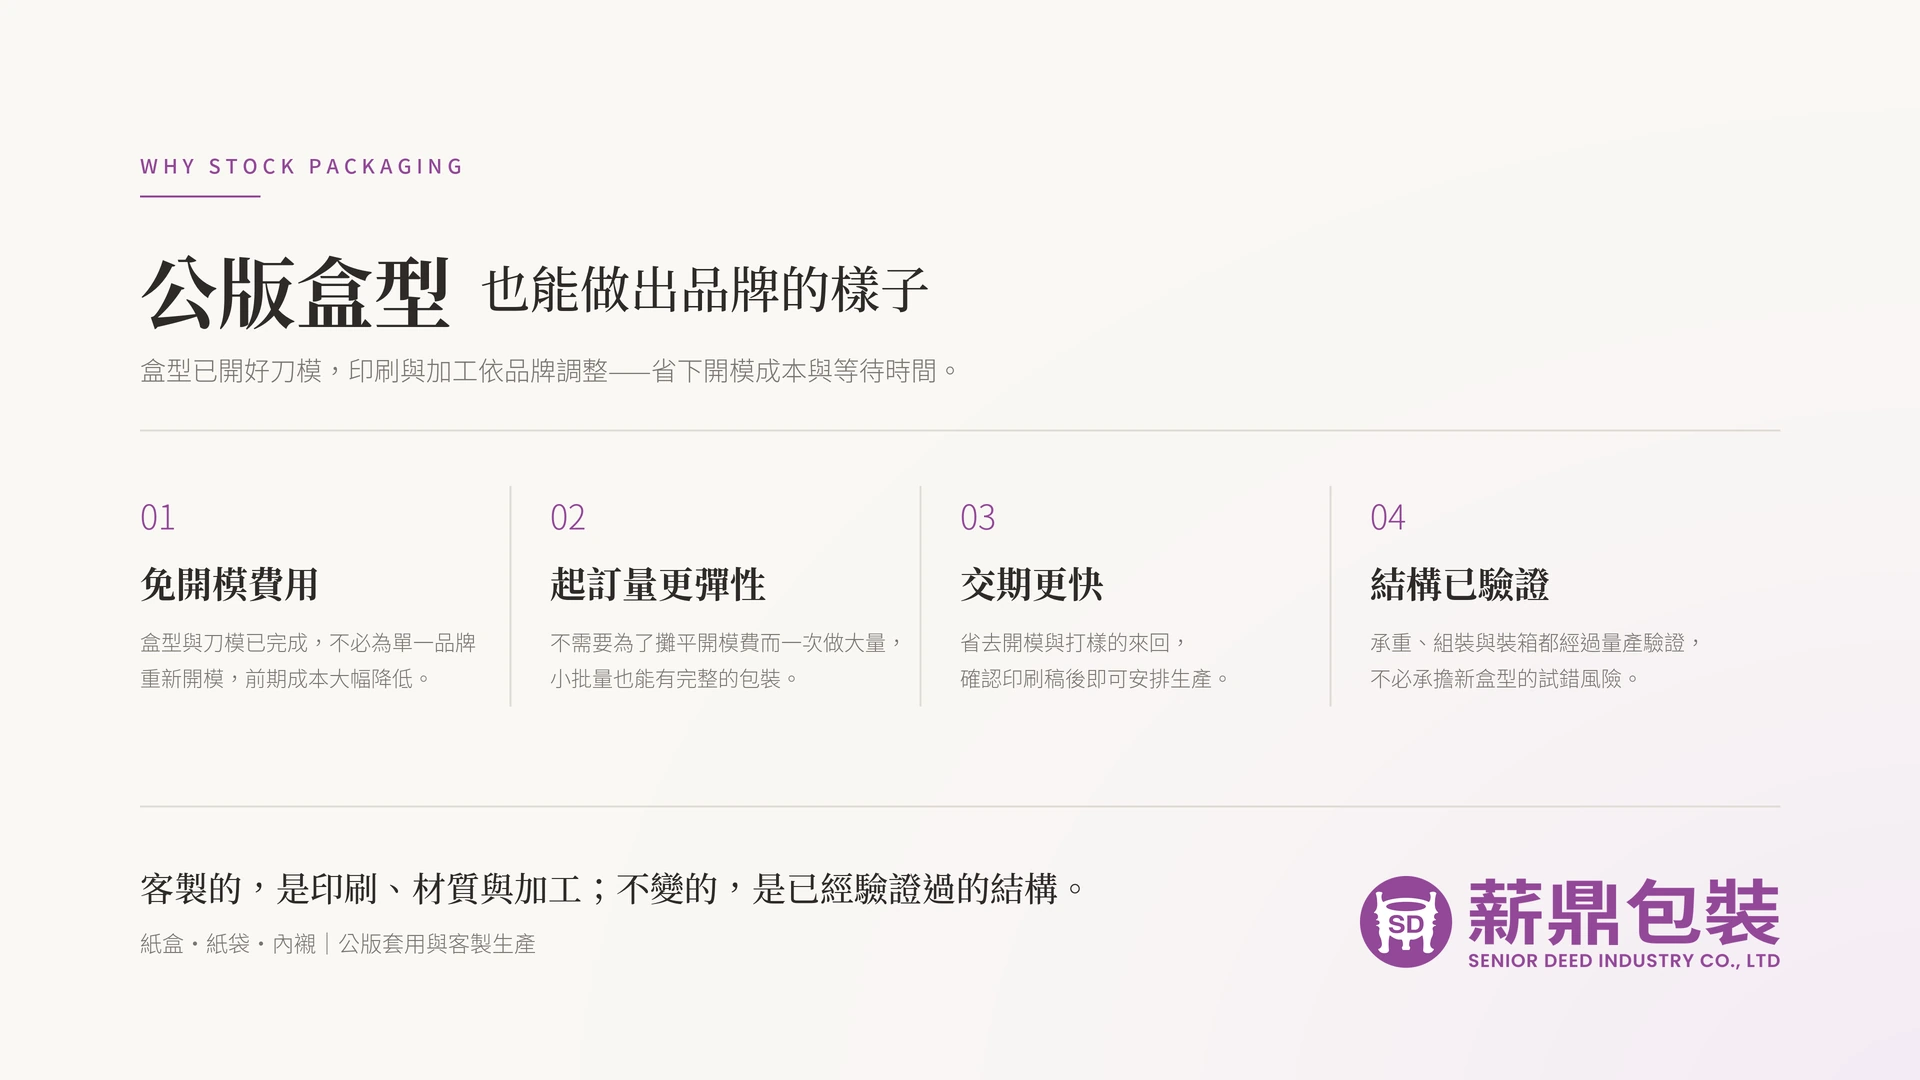
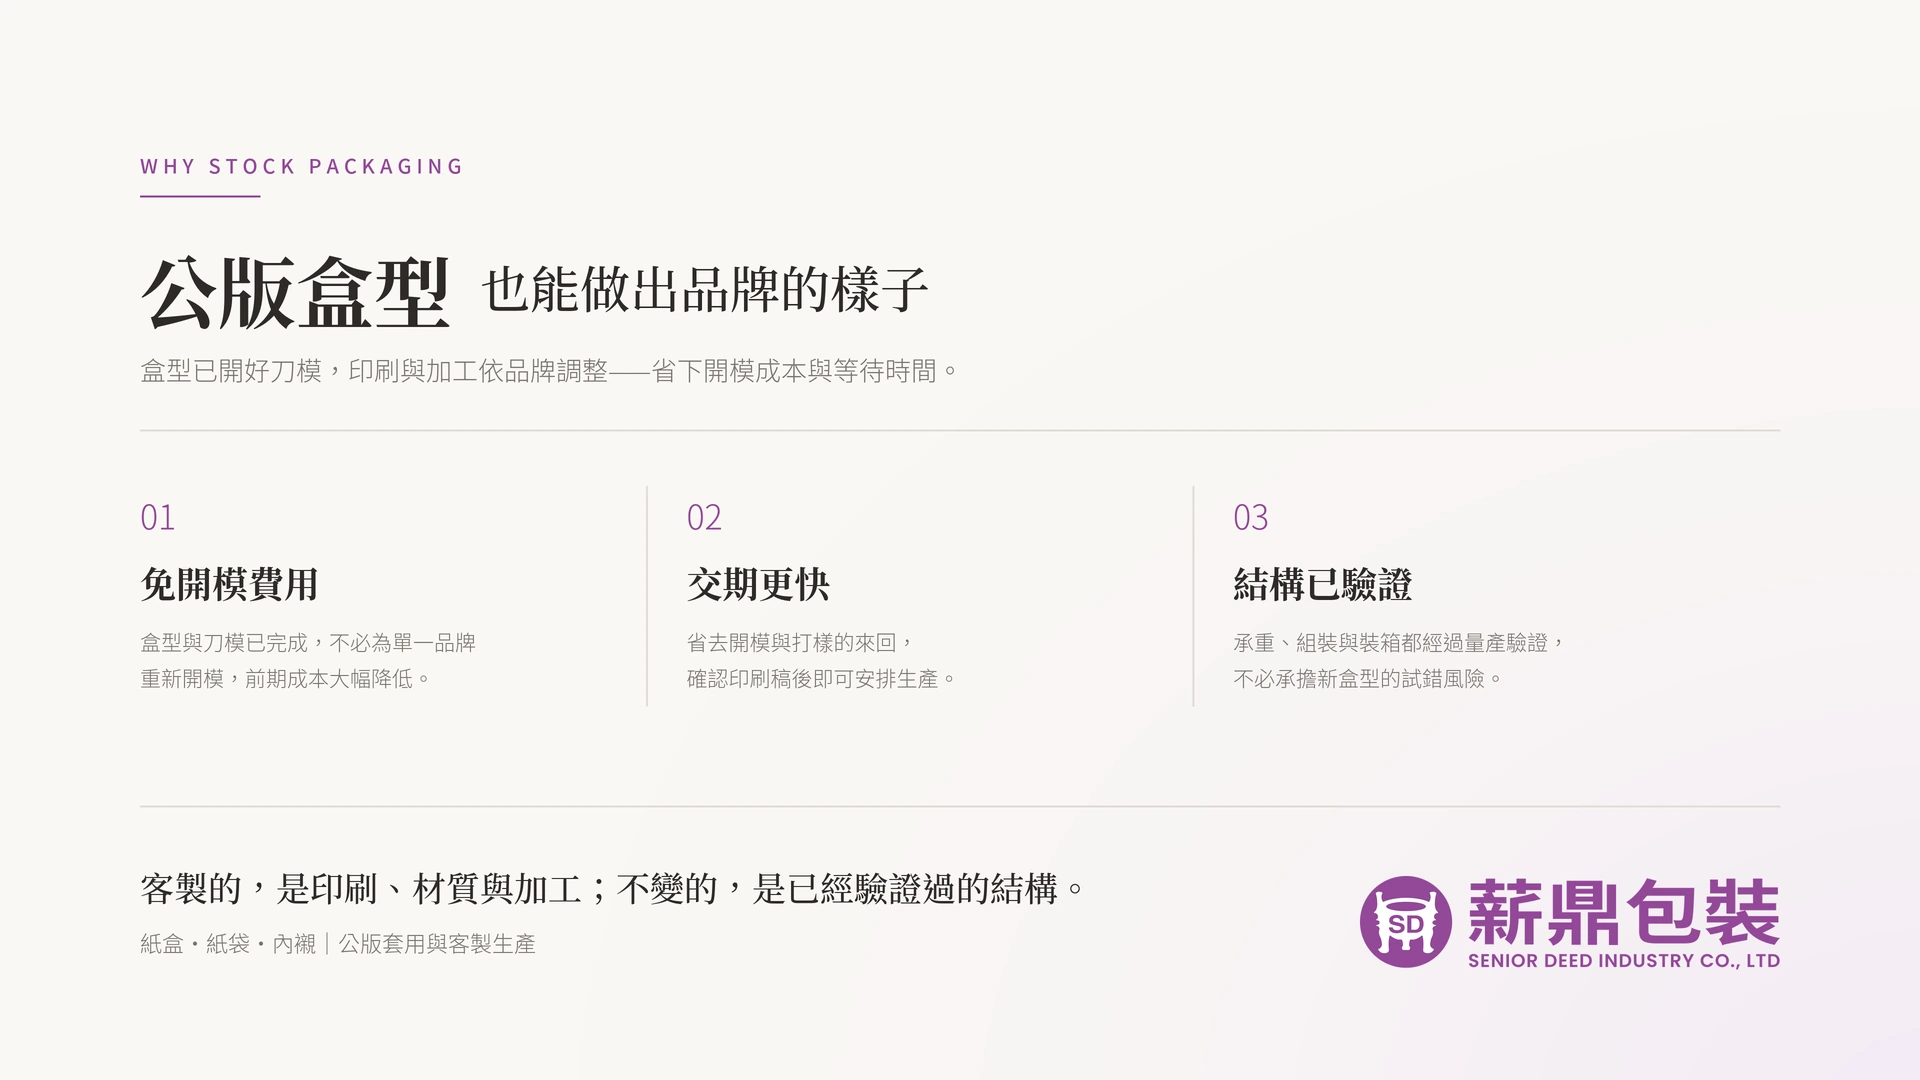
stock ending: drop the MOQ/flexibility point, 3 points
Claude-Session: https://claude.ai/code/session_01FHAxfGfD8vpumr7C1YBcXa

diff --git a/cases/gemalan.html b/cases/gemalan.html
@@ -32,7 +32,7 @@
 <figure class="rl-ai cs-io" style="--W:1920"><div class="rl-st"><img class="rl-pg" src="./gemalan/s/c3.webp?v=5" alt="星之坊 c3" loading="lazy" decoding="async"><div class="rl-hv"></div><div class="rl-tx"><span class="f-sans" style="--i:0;left:4.167%;top:6.481%;--s:24.0;--ls:0.2;color:#B39A68;font-weight:600">STOCK STRUCTURE 03</span><span class="f-sans" style="--i:1;left:4.167%;top:9.815%;--s:24.0;--ls:0;color:#B39A68;font-weight:300">/</span><span class="f-serif" style="--i:2;left:5.625%;top:10.185%;--s:34.0;--ls:0;color:#4A3A2E;font-weight:700">公版盒型</span><span class="f-serif" style="--i:3;left:20.938%;top:86.111%;--s:26.0;--ls:0;color:#6F6A64;font-weight:700">薪鼎公版盒型</span><span class="f-sans" style="--i:4;left:20.313%;top:90.278%;--s:20.0;--ls:0;color:#8E8880;font-weight:400">公版花色「蒲公英」</span><span class="f-serif" style="--i:5;left:69.854%;top:86.111%;--s:26.0;--ls:0;color:#4A3A2E;font-weight:700">星之坊 套用設計</span><span class="f-sans" style="--i:6;left:65.417%;top:90.278%;--s:20.0;--ls:0;color:#9A8C78;font-weight:400">8吋上下蓋蛋糕盒・25.4×25.4×16 cm</span></div></div><details class="rl-flow"><summary>展開本頁文字</summary><div class="rl-fb"><p>公版盒型：8吋上下蓋蛋糕盒 25.4×25.4×16 cm</p><p>左：薪鼎公版盒型（公版花色「蒲公英」）</p><p>右：星之坊 套用設計</p></div></details></figure>
 <figure class="rl-ai cs-io" style="--W:1920"><div class="rl-st"><img class="rl-pg" src="./gemalan/s/c4.webp?v=5" alt="星之坊 c4" loading="lazy" decoding="async"><div class="rl-hv"></div><div class="rl-tx"><span class="f-sans" style="--i:0;left:4.167%;top:6.481%;--s:24.0;--ls:0.2;color:#B39A68;font-weight:600">STOCK STRUCTURE 04</span><span class="f-sans" style="--i:1;left:4.167%;top:9.815%;--s:24.0;--ls:0;color:#B39A68;font-weight:300">/</span><span class="f-serif" style="--i:2;left:5.625%;top:10.185%;--s:34.0;--ls:0;color:#4A3A2E;font-weight:700">公版盒型</span><span class="f-serif" style="--i:3;left:20.938%;top:86.111%;--s:26.0;--ls:0;color:#6F6A64;font-weight:700">薪鼎公版盒型</span><span class="f-sans" style="--i:4;left:20.834%;top:90.278%;--s:20.0;--ls:0;color:#8E8880;font-weight:400">公版花色「絮語」</span><span class="f-serif" style="--i:5;left:69.854%;top:86.111%;--s:26.0;--ls:0;color:#4A3A2E;font-weight:700">星之坊 套用設計</span><span class="f-sans" style="--i:6;left:65.417%;top:90.278%;--s:20.0;--ls:0;color:#9A8C78;font-weight:400">花瓣盒（切片蛋糕盒）・15×10×13 cm</span></div></div><details class="rl-flow"><summary>展開本頁文字</summary><div class="rl-fb"><p>公版盒型：花瓣盒（切片蛋糕盒） 15×10×13 cm</p><p>左：薪鼎公版盒型（公版花色「絮語」）</p><p>右：星之坊 套用設計</p></div></details></figure>
 <figure class="rl-ai cs-io" style="--W:1920"><div class="rl-st"><img class="rl-pg" src="./gemalan/s/sc6.webp?v=4" alt="星之坊 6吋上下蓋蛋糕盒 情境" loading="lazy" decoding="async"><div class="rl-hv"></div><div class="rl-tx"><span class="f-sans" style="--i:0;left:7.292%;top:30.556%;--s:22.0;--ls:0.2;color:#B39A68;font-weight:600">IN USE 02</span><span class="f-serif" style="--i:1;left:7.292%;top:35.185%;--s:40.0;--ls:0;color:#4A3A2E;font-weight:700">6吋上下蓋蛋糕盒</span><span class="f-sans" style="--i:2;left:7.292%;top:42.593%;--s:20.0;--ls:0;color:#9A8C78;font-weight:400">21 × 21 × 16 cm</span></div></div><details class="rl-flow"><summary>展開本頁文字</summary><div class="rl-fb"><p>6吋上下蓋蛋糕盒 21 × 21 × 16 cm</p></div></details></figure>
-<figure class="rl-ai cs-io" style="--W:1920"><div class="rl-st"><img class="rl-pg" src="./gemalan/s/scpetal.webp?v=4" alt="星之坊 花瓣盒 情境" loading="lazy" decoding="async"><div class="rl-hv"></div><div class="rl-tx"><span class="f-sans" style="--i:0;left:7.292%;top:30.556%;--s:22.0;--ls:0.2;color:#B39A68;font-weight:600">IN USE 03</span><span class="f-serif" style="--i:1;left:7.292%;top:35.185%;--s:40.0;--ls:0;color:#4A3A2E;font-weight:700">花瓣盒（切片蛋糕盒）</span><span class="f-sans" style="--i:2;left:7.292%;top:42.593%;--s:20.0;--ls:0;color:#9A8C78;font-weight:400">15 × 10 × 13 cm</span></div></div><details class="rl-flow"><summary>展開本頁文字</summary><div class="rl-fb"><p>花瓣盒（切片蛋糕盒） 15 × 10 × 13 cm</p></div></details></figure><figure class="rl-ai cs-io" style="--W:1920"><div class="rl-st"><img class="rl-pg" src="./_common/stock-ending.webp?v=1" alt="公版盒型的優點｜薪鼎包裝" loading="lazy" decoding="async"><div class="rl-hv"></div></div><details class="rl-flow"><summary>展開本頁文字</summary><div class="rl-fb"><p>公版盒型也能做出品牌的樣子：免開模費用、起訂量更彈性、交期更快、結構已驗證。</p><p>客製的，是印刷、材質與加工；不變的，是已經驗證過的結構。</p></div></details></figure></section><section class="rl-cred"><div class="rl-cl"><p class="rl-ck">Credits</p><p class="rl-nt">（名單待確認）</p></div><ul><li><small>Client</small><b>葛瑪蘭之星飯店｜星之坊</b></li><li><small>Design</small><b>客戶自行設計</b></li><li><small>Stock Structures</small><b>薪鼎公版盒型</b></li><li><small>Production</small><b>Senior Deed</b></li><li><small>Year</small><b>2023</b></li></ul></section><div class="rl-end" style="padding-top:90px"><a href="./"><i>←</i>回到全部作品</a></div></article><script>(function(){document.querySelectorAll('.rl-st').forEach(function(st){var hs=[].slice.call(st.querySelectorAll('.hot'));if(!hs.length)return;var cur=null;function set(g){if(g===cur)return;cur=g;st.querySelectorAll('.hi').forEach(function(e){e.classList.remove('hi')});st.classList.toggle('hv',g!==null);if(g!==null)st.querySelectorAll('[data-g="'+g+'"]').forEach(function(e){e.classList.add('hi')})}st.addEventListener('mousemove',function(ev){var g=null;hs.forEach(function(h){var r=h.getBoundingClientRect();if(ev.clientX>=r.left&&ev.clientX<=r.right&&ev.clientY>=r.top&&ev.clientY<=r.bottom)g=h.dataset.g});set(g)});st.addEventListener('mouseleave',function(){set(null)})});document.addEventListener('click',function(e){var x=e.target.closest('.hex');if(!x)return;var v=x.textContent.trim();(navigator.clipboard?navigator.clipboard.writeText(v):Promise.reject()).catch(function(){}).then(function(){x.classList.add('ok');setTimeout(function(){x.classList.remove('ok')},1400)})});var F=document.querySelector('.rl-float');if(F&&matchMedia('(any-hover:none)').matches){var fo=new IntersectionObserver(function(es){if(es[0].isIntersecting){setTimeout(function(){F.classList.add('go')},2600);fo.disconnect()}},{threshold:.5});fo.observe(F.parentNode)}var R=document.querySelector('.rl-reel');if(R){var bar=document.querySelector('.rl-prog i'),cnt=document.querySelector('.rl-cnt b'),box=document.querySelector('.rl-cnt'),ims=document.querySelectorAll('.rl-pg');function u(){var r=R.getBoundingClientRect(),h=r.height-innerHeight,p=Math.min(1,Math.max(0,-r.top/h));bar.style.transform='scaleX('+p+')';var k=1;ims.forEach(function(im,i){if(im.getBoundingClientRect().top<innerHeight*.5)k=i+1});cnt.textContent=(k<10?'0':'')+k;var on=r.top<120&&r.bottom>innerHeight*.75;box.classList.toggle('on',on);document.querySelector('.rl-prog').classList.toggle('on',on)}addEventListener('scroll',u,{passive:true});u()}var io=new IntersectionObserver(function(es){es.forEach(function(e){if(e.isIntersecting){e.target.classList.add("on");(function(t){setTimeout(function(){t.classList.add("ready")},2600)})(e.target);io.unobserve(e.target)}})},{threshold:.18,rootMargin:"0px 0px -6% 0px"});
+<figure class="rl-ai cs-io" style="--W:1920"><div class="rl-st"><img class="rl-pg" src="./gemalan/s/scpetal.webp?v=4" alt="星之坊 花瓣盒 情境" loading="lazy" decoding="async"><div class="rl-hv"></div><div class="rl-tx"><span class="f-sans" style="--i:0;left:7.292%;top:30.556%;--s:22.0;--ls:0.2;color:#B39A68;font-weight:600">IN USE 03</span><span class="f-serif" style="--i:1;left:7.292%;top:35.185%;--s:40.0;--ls:0;color:#4A3A2E;font-weight:700">花瓣盒（切片蛋糕盒）</span><span class="f-sans" style="--i:2;left:7.292%;top:42.593%;--s:20.0;--ls:0;color:#9A8C78;font-weight:400">15 × 10 × 13 cm</span></div></div><details class="rl-flow"><summary>展開本頁文字</summary><div class="rl-fb"><p>花瓣盒（切片蛋糕盒） 15 × 10 × 13 cm</p></div></details></figure><figure class="rl-ai cs-io" style="--W:1920"><div class="rl-st"><img class="rl-pg" src="./_common/stock-ending.webp?v=2" alt="公版盒型的優點｜薪鼎包裝" loading="lazy" decoding="async"><div class="rl-hv"></div></div><details class="rl-flow"><summary>展開本頁文字</summary><div class="rl-fb"><p>公版盒型也能做出品牌的樣子：免開模費用、起訂量更彈性、交期更快、結構已驗證。</p><p>客製的，是印刷、材質與加工；不變的，是已經驗證過的結構。</p></div></details></figure></section><section class="rl-cred"><div class="rl-cl"><p class="rl-ck">Credits</p><p class="rl-nt">（名單待確認）</p></div><ul><li><small>Client</small><b>葛瑪蘭之星飯店｜星之坊</b></li><li><small>Design</small><b>客戶自行設計</b></li><li><small>Stock Structures</small><b>薪鼎公版盒型</b></li><li><small>Production</small><b>Senior Deed</b></li><li><small>Year</small><b>2023</b></li></ul></section><div class="rl-end" style="padding-top:90px"><a href="./"><i>←</i>回到全部作品</a></div></article><script>(function(){document.querySelectorAll('.rl-st').forEach(function(st){var hs=[].slice.call(st.querySelectorAll('.hot'));if(!hs.length)return;var cur=null;function set(g){if(g===cur)return;cur=g;st.querySelectorAll('.hi').forEach(function(e){e.classList.remove('hi')});st.classList.toggle('hv',g!==null);if(g!==null)st.querySelectorAll('[data-g="'+g+'"]').forEach(function(e){e.classList.add('hi')})}st.addEventListener('mousemove',function(ev){var g=null;hs.forEach(function(h){var r=h.getBoundingClientRect();if(ev.clientX>=r.left&&ev.clientX<=r.right&&ev.clientY>=r.top&&ev.clientY<=r.bottom)g=h.dataset.g});set(g)});st.addEventListener('mouseleave',function(){set(null)})});document.addEventListener('click',function(e){var x=e.target.closest('.hex');if(!x)return;var v=x.textContent.trim();(navigator.clipboard?navigator.clipboard.writeText(v):Promise.reject()).catch(function(){}).then(function(){x.classList.add('ok');setTimeout(function(){x.classList.remove('ok')},1400)})});var F=document.querySelector('.rl-float');if(F&&matchMedia('(any-hover:none)').matches){var fo=new IntersectionObserver(function(es){if(es[0].isIntersecting){setTimeout(function(){F.classList.add('go')},2600);fo.disconnect()}},{threshold:.5});fo.observe(F.parentNode)}var R=document.querySelector('.rl-reel');if(R){var bar=document.querySelector('.rl-prog i'),cnt=document.querySelector('.rl-cnt b'),box=document.querySelector('.rl-cnt'),ims=document.querySelectorAll('.rl-pg');function u(){var r=R.getBoundingClientRect(),h=r.height-innerHeight,p=Math.min(1,Math.max(0,-r.top/h));bar.style.transform='scaleX('+p+')';var k=1;ims.forEach(function(im,i){if(im.getBoundingClientRect().top<innerHeight*.5)k=i+1});cnt.textContent=(k<10?'0':'')+k;var on=r.top<120&&r.bottom>innerHeight*.75;box.classList.toggle('on',on);document.querySelector('.rl-prog').classList.toggle('on',on)}addEventListener('scroll',u,{passive:true});u()}var io=new IntersectionObserver(function(es){es.forEach(function(e){if(e.isIntersecting){e.target.classList.add("on");(function(t){setTimeout(function(){t.classList.add("ready")},2600)})(e.target);io.unobserve(e.target)}})},{threshold:.18,rootMargin:"0px 0px -6% 0px"});
 document.querySelectorAll(".cs-io").forEach(function(el){io.observe(el)});var io2=new IntersectionObserver(function(es){es.forEach(function(e){if(e.isIntersecting){e.target.classList.add('in');io2.unobserve(e.target)}})},{threshold:.12});document.querySelectorAll('.rl-reel > .rl-pg, .rl-reel > .rl-kb').forEach(function(el){io2.observe(el)});
 var VI=new IntersectionObserver(function(es){es.forEach(function(e){var v=e.target.querySelector('video');if(e.isIntersecting){v.preload='auto';v.play().catch(function(){})}else v.pause()})},{threshold:.35});document.querySelectorAll('.rl-vid,.rl-clip,.rl-v16').forEach(function(b){VI.observe(b);var bt=b.querySelector('.rl-snd');if(bt)bt.addEventListener('click',function(){var v=b.querySelector('video');v.muted=!v.muted;if(!v.muted)v.volume=.3;bt.classList.toggle('on',!v.muted);if(!v.muted){v.currentTime=0;v.play()}})});document.querySelectorAll('.rl-jy').forEach(function(J){var its=[].slice.call(J.querySelectorAll('.jy-it')),vs=its.map(function(i){return i.querySelector('video')}),cur=-1,vis=false,hov=false;function go(k){if(cur>-1){vs[cur].pause();its[cur].classList.remove('on')}cur=k;its.forEach(function(it,i){it.classList.toggle('done',i<k)});its[k].classList.add('on');J.style.setProperty('--p',k);vs[k].currentTime=0;vs[k].play().catch(function(){})}vs.forEach(function(v,i){v.preload='auto';v.addEventListener('ended',function(){if(!vis)return;go(hov?i:(i+1)%vs.length)})});its.forEach(function(it,i){it.addEventListener('mouseenter',function(){hov=true;if(i!==cur)go(i)});it.addEventListener('mouseleave',function(){hov=false})});new IntersectionObserver(function(es){vis=es[0].isIntersecting;if(vis){go(cur<0?0:cur)}else if(cur>-1)vs[cur].pause()},{threshold:.4}).observe(J)});var h=document.querySelector(".cs-hero .cs-im img");if(h&&!matchMedia("(prefers-reduced-motion: reduce)").matches){addEventListener("scroll",function(){var y=Math.min(scrollY,900);h.style.transform="translateY("+(y*.18)+"px) scale(1.06)"},{passive:true})}})();</script>
 </main>

diff --git a/cases/xiangyuan.html b/cases/xiangyuan.html
@@ -34,7 +34,7 @@
   <div class="rl-meta2"><div><small>Client</small><b>香園紀念教養院 KAORI</b></div><div><small>Scope</small><b>套用公版設計</b></div><div><small>Agency</small><b>薪鼎包裝 Senior Deed</b></div></div>
 </header>
 <figure class="rl-hero"><img class="rl-pg" src="./xiangyuan/s/hero.webp?v=2" alt="香園紀念教養院 KAORI 情境" loading="eager"></figure><div class="rl-prog" aria-hidden="true"><i></i></div><div class="rl-cnt" aria-hidden="true"><b>01</b><span>/ 08</span></div><section class="rl-reel"><figure class="rl-ai cs-io" style="--W:1920"><div class="rl-st"><img class="rl-pg" src="./xiangyuan/s/client.webp?v=1" alt="香園紀念教養院 KAORI" loading="lazy" decoding="async"><div class="rl-hv"></div><div class="rl-tx"><span class="f-sans" style="--i:0;left:47.750%;top:17.593%;--s:24.0;--ls:0;color:#B58A4E;font-weight:600">CLIENT</span><span class="f-serif" style="--i:1;left:41.719%;top:78.704%;--s:30.0;--ls:0;color:#1F4A3C;font-weight:500">香園紀念教養院 KAORI</span></div></div><details class="rl-flow"><summary>展開本頁文字</summary><div class="rl-fb"><p>香園紀念教養院 KAORI</p></div></details></figure><figure class="rl-ai cs-io" style="--W:1920"><div class="rl-st"><img class="rl-pg" src="./xiangyuan/s/p1.webp?v=2" alt="香園紀念教養院 KAORI 6規平放盒" loading="lazy" decoding="async"><div class="rl-hv"></div><div class="rl-tx"><span class="f-sans" style="--i:0;left:6.25%;top:38%;--s:22.0;--ls:0.2;color:#B58A4E;font-weight:600">GIFT BOX 01</span><span class="f-serif" style="--i:1;left:6.25%;top:42.5%;--s:44.0;--ls:0;color:#1F4A3C;font-weight:700">6規平放盒</span></div></div><details class="rl-flow"><summary>展開本頁文字</summary><div class="rl-fb"><p>6規平放盒</p></div></details></figure><figure class="rl-ai cs-io" style="--W:1920"><div class="rl-st"><img class="rl-pg" src="./xiangyuan/s/p2.webp?v=2" alt="香園紀念教養院 KAORI 9規上掀盒" loading="lazy" decoding="async"><div class="rl-hv"></div><div class="rl-tx"><span class="f-sans" style="--i:0;left:6.25%;top:38%;--s:22.0;--ls:0.2;color:#B58A4E;font-weight:600">GIFT BOX 02</span><span class="f-serif" style="--i:1;left:6.25%;top:42.5%;--s:44.0;--ls:0;color:#1F4A3C;font-weight:700">9規上掀盒</span></div></div><details class="rl-flow"><summary>展開本頁文字</summary><div class="rl-fb"><p>9規上掀盒</p></div></details></figure><figure class="rl-ai cs-io" style="--W:1920"><div class="rl-st"><img class="rl-pg" src="./xiangyuan/s/p3.webp?v=2" alt="香園紀念教養院 KAORI 平放袋" loading="lazy" decoding="async"><div class="rl-hv"></div><div class="rl-tx"><span class="f-sans" style="--i:0;left:6.25%;top:38%;--s:22.0;--ls:0.2;color:#B58A4E;font-weight:600">PAPER BAG 03</span><span class="f-serif" style="--i:1;left:6.25%;top:42.5%;--s:44.0;--ls:0;color:#1F4A3C;font-weight:700">平放袋</span></div></div><details class="rl-flow"><summary>展開本頁文字</summary><div class="rl-fb"><p>平放袋</p></div></details></figure><figure class="rl-ai cs-io" style="--W:1920"><div class="rl-st"><img class="rl-pg" src="./xiangyuan/s/p4.webp?v=2" alt="香園紀念教養院 KAORI 直立袋" loading="lazy" decoding="async"><div class="rl-hv"></div><div class="rl-tx"><span class="f-sans" style="--i:0;left:6.25%;top:38%;--s:22.0;--ls:0.2;color:#B58A4E;font-weight:600">PAPER BAG 04</span><span class="f-serif" style="--i:1;left:6.25%;top:42.5%;--s:44.0;--ls:0;color:#1F4A3C;font-weight:700">直立袋</span></div></div><details class="rl-flow"><summary>展開本頁文字</summary><div class="rl-fb"><p>直立袋</p></div></details></figure>
-<figure class="rl-ai cs-io" style="--W:1920"><div class="rl-st"><img class="rl-pg" src="./xiangyuan/s/d1.webp?v=1" alt="香園紀念教養院 KAORI 細節" loading="lazy" decoding="async"><div class="rl-hv"></div><div class="rl-tx"><span class="f-sans" style="--i:0;left:7.8%;top:9.5%;--s:22.0;--ls:0.2;color:#B58A4E;font-weight:600">DETAILS</span><span class="f-serif" style="--i:1;left:7.8%;top:13.5%;--s:38.0;--ls:0;color:#1F4A3C;font-weight:700">設計細節</span><span class="f-sans" style="--i:2;left:7.8%;top:85%;--s:20.0;--ls:0;color:#1F4A3C;font-weight:500">月形插畫</span><span class="f-sans" style="--i:3;left:36.7%;top:85%;--s:20.0;--ls:0;color:#1F4A3C;font-weight:500">金色格紋</span><span class="f-sans" style="--i:4;left:65.6%;top:85%;--s:20.0;--ls:0;color:#1F4A3C;font-weight:500">紙繩提把</span></div></div><details class="rl-flow"><summary>展開本頁文字</summary><div class="rl-fb"><p>設計細節：月形插畫、金色格紋、紙繩提把</p></div></details></figure><figure class="rl-ai cs-io" style="--W:1920"><div class="rl-st"><img class="rl-pg" src="./_common/stock-ending.webp?v=1" alt="公版盒型的優點｜薪鼎包裝" loading="lazy" decoding="async"><div class="rl-hv"></div></div><details class="rl-flow"><summary>展開本頁文字</summary><div class="rl-fb"><p>公版盒型也能做出品牌的樣子：免開模費用、起訂量更彈性、交期更快、結構已驗證。</p></div></details></figure></section>
+<figure class="rl-ai cs-io" style="--W:1920"><div class="rl-st"><img class="rl-pg" src="./xiangyuan/s/d1.webp?v=1" alt="香園紀念教養院 KAORI 細節" loading="lazy" decoding="async"><div class="rl-hv"></div><div class="rl-tx"><span class="f-sans" style="--i:0;left:7.8%;top:9.5%;--s:22.0;--ls:0.2;color:#B58A4E;font-weight:600">DETAILS</span><span class="f-serif" style="--i:1;left:7.8%;top:13.5%;--s:38.0;--ls:0;color:#1F4A3C;font-weight:700">設計細節</span><span class="f-sans" style="--i:2;left:7.8%;top:85%;--s:20.0;--ls:0;color:#1F4A3C;font-weight:500">月形插畫</span><span class="f-sans" style="--i:3;left:36.7%;top:85%;--s:20.0;--ls:0;color:#1F4A3C;font-weight:500">金色格紋</span><span class="f-sans" style="--i:4;left:65.6%;top:85%;--s:20.0;--ls:0;color:#1F4A3C;font-weight:500">紙繩提把</span></div></div><details class="rl-flow"><summary>展開本頁文字</summary><div class="rl-fb"><p>設計細節：月形插畫、金色格紋、紙繩提把</p></div></details></figure><figure class="rl-ai cs-io" style="--W:1920"><div class="rl-st"><img class="rl-pg" src="./_common/stock-ending.webp?v=2" alt="公版盒型的優點｜薪鼎包裝" loading="lazy" decoding="async"><div class="rl-hv"></div></div><details class="rl-flow"><summary>展開本頁文字</summary><div class="rl-fb"><p>公版盒型也能做出品牌的樣子：免開模費用、起訂量更彈性、交期更快、結構已驗證。</p></div></details></figure></section>
 <div class="rl-end"><a href="./"><i>←</i>回到全部作品</a></div>
 </article></main>
 
